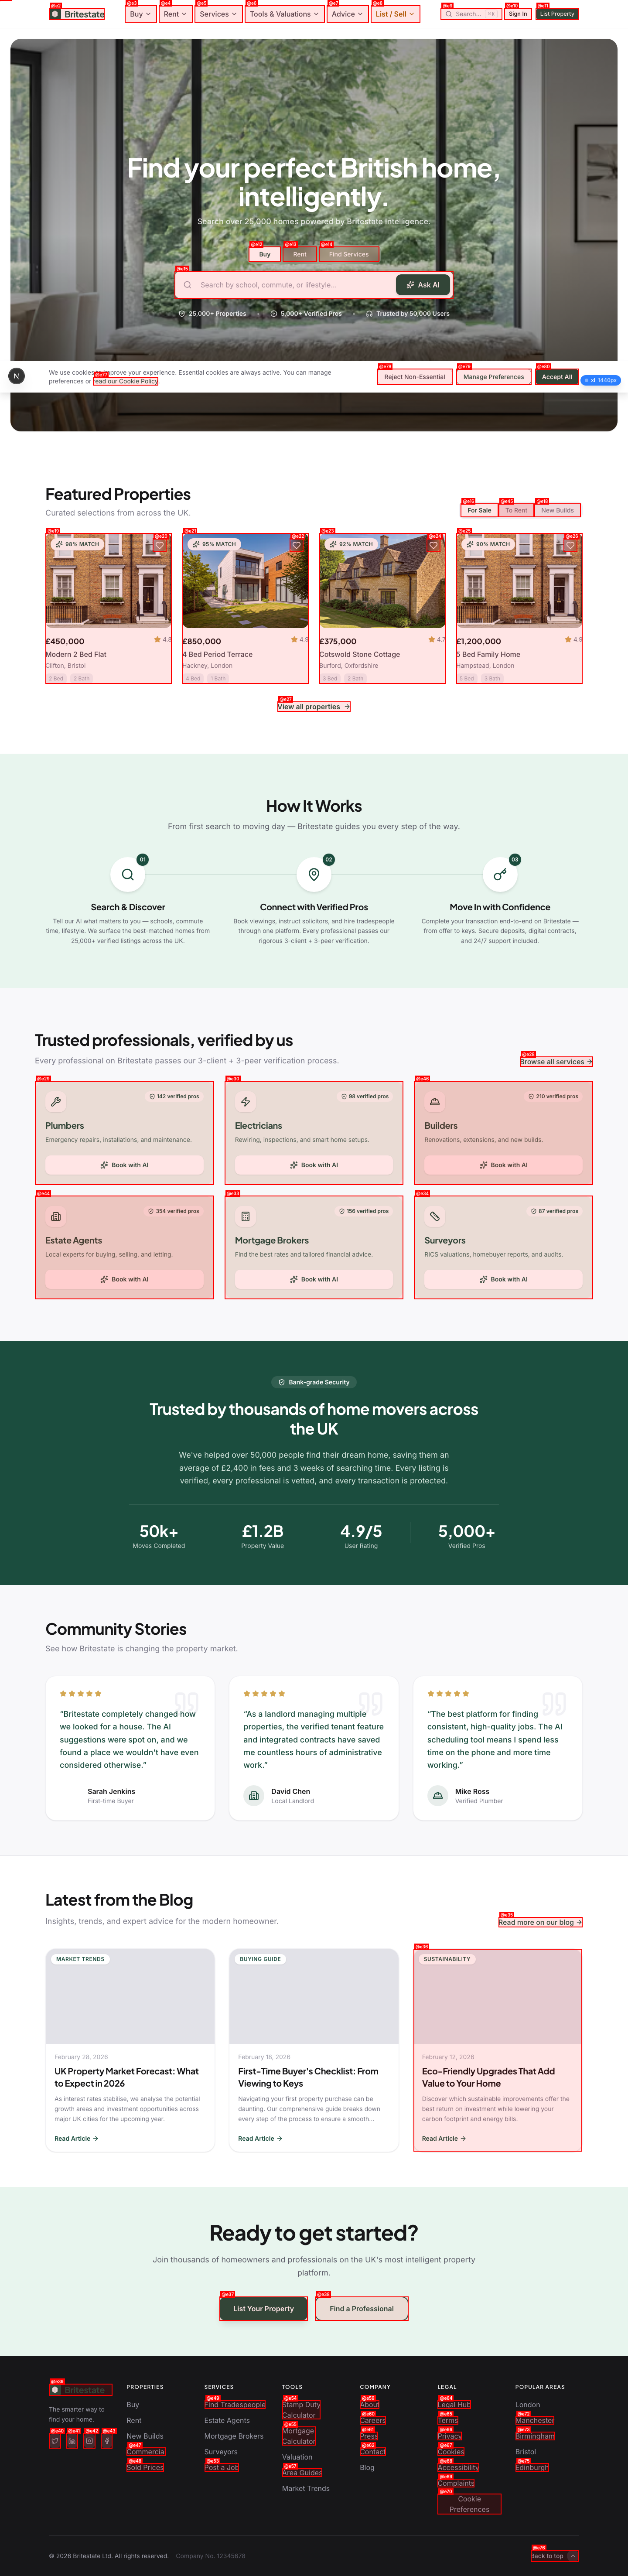
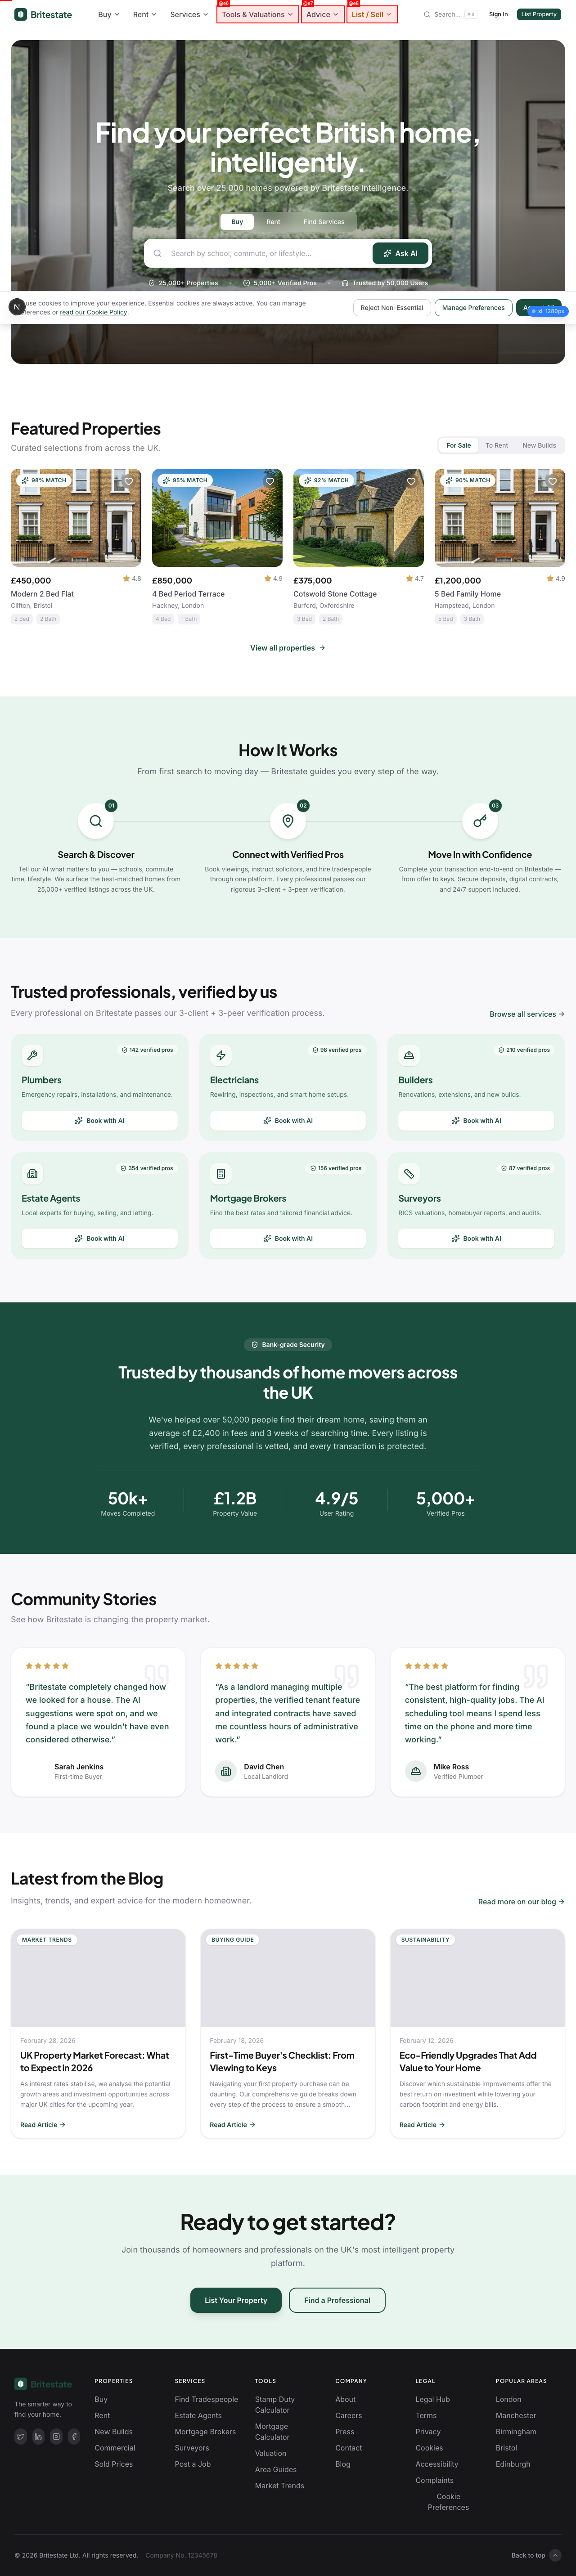
style(stage8): restyle provider dashboard pages to Stitch tokens

diff --git a/src/services/provider/provider-analytics-service.ts b/src/services/provider/provider-analytics-service.ts
@@ -72,60 +72,73 @@ export async function getProviderAnalytics(
   providerId: string,
   period: AnalyticsPeriod,
 ): Promise<ProviderAnalyticsSummary> {
-  const startDate = startDateForPeriod(period);
-
-  const { data, error } = await supabase
-    .from("provider_analytics_daily")
-    .select("*")
-    .eq("provider_id", providerId)
-    .gte("date", startDate)
-    .order("date", { ascending: true });
-
-  if (error) throw new Error(error.message);
-
-  const rows = (data ?? []) as ProviderAnalyticsDaily[];
-
-  // -- profile_views_total
-  const profile_views_total = rows.reduce((sum, r) => sum + r.profile_views, 0);
-
-  // -- profile_views_by_day
-  const profile_views_by_day: ProfileViewsByDay[] = rows.map((r) => ({
-    date: r.date,
-    views: r.profile_views,
-  }));
-
-  // -- enquiry_rate_pct
-  const totalEnquiries = rows.reduce((sum, r) => sum + r.enquiries_received, 0);
-  const enquiry_rate_pct =
-    profile_views_total > 0
-      ? Math.min(100, Math.round((totalEnquiries / profile_views_total) * 100 * 100) / 100)
-      : 0;
-
-  // -- conversion_by_stage
-  const conversion_by_stage = await getConversionFunnel(supabase, providerId, period, rows);
-
-  // -- earnings_by_month (group by YYYY-MM)
-  const earningsMap = new Map<string, number>();
-  for (const row of rows) {
-    const month = row.date.slice(0, 7); // YYYY-MM
-    earningsMap.set(month, (earningsMap.get(month) ?? 0) + row.earnings_pence);
-  }
-  const earnings_by_month: EarningsByMonth[] = Array.from(earningsMap.entries())
-    .map(([month, earnings_pence]) => ({ month, earnings_pence }))
-    .sort((a, b) => a.month.localeCompare(b.month));
-
-  // -- top_categories: requires bookings data; not available in analytics_daily
-  // TODO: query provider_bookings joined to provider_services for category breakdown
-  const top_categories: TopCategory[] = [];
-
-  return {
-    profile_views_total,
-    profile_views_by_day,
-    enquiry_rate_pct,
-    conversion_by_stage,
-    earnings_by_month,
-    top_categories,
+  const EMPTY: ProviderAnalyticsSummary = {
+    profile_views_total: 0,
+    profile_views_by_day: [],
+    enquiry_rate_pct: 0,
+    conversion_by_stage: { viewed: 0, enquired: 0, quoted: 0, booked: 0 },
+    earnings_by_month: [],
+    top_categories: [],
   };
+
+  try {
+    const startDate = startDateForPeriod(period);
+
+    const { data, error } = await supabase
+      .from("provider_analytics_daily")
+      .select("*")
+      .eq("provider_id", providerId)
+      .gte("date", startDate)
+      .order("date", { ascending: true });
+
+    if (error || !data) return EMPTY;
+
+    const rows = data as ProviderAnalyticsDaily[];
+
+    // -- profile_views_total
+    const profile_views_total = rows.reduce((sum, r) => sum + r.profile_views, 0);
+
+    // -- profile_views_by_day
+    const profile_views_by_day: ProfileViewsByDay[] = rows.map((r) => ({
+      date: r.date,
+      views: r.profile_views,
+    }));
+
+    // -- enquiry_rate_pct
+    const totalEnquiries = rows.reduce((sum, r) => sum + r.enquiries_received, 0);
+    const enquiry_rate_pct =
+      profile_views_total > 0
+        ? Math.min(100, Math.round((totalEnquiries / profile_views_total) * 100 * 100) / 100)
+        : 0;
+
+    // -- conversion_by_stage
+    const conversion_by_stage = await getConversionFunnel(supabase, providerId, period, rows);
+
+    // -- earnings_by_month (group by YYYY-MM)
+    const earningsMap = new Map<string, number>();
+    for (const row of rows) {
+      const month = row.date.slice(0, 7); // YYYY-MM
+      earningsMap.set(month, (earningsMap.get(month) ?? 0) + row.earnings_pence);
+    }
+    const earnings_by_month: EarningsByMonth[] = Array.from(earningsMap.entries())
+      .map(([month, earnings_pence]) => ({ month, earnings_pence }))
+      .sort((a, b) => a.month.localeCompare(b.month));
+
+    // -- top_categories: requires bookings data; not available in analytics_daily
+    // TODO: query provider_bookings joined to provider_services for category breakdown
+    const top_categories: TopCategory[] = [];
+
+    return {
+      profile_views_total,
+      profile_views_by_day,
+      enquiry_rate_pct,
+      conversion_by_stage,
+      earnings_by_month,
+      top_categories,
+    };
+  } catch {
+    return EMPTY;
+  }
 }
 
 // ---------------------------------------------------------------------------
@@ -157,8 +170,8 @@ export async function getConversionFunnel(
       .eq("provider_id", providerId)
       .gte("date", startDate);
 
-    if (error) throw new Error(error.message);
-    dailyRows = (data ?? []) as ProviderAnalyticsDaily[];
+    if (error || !data) return { viewed: 0, enquired: 0, quoted: 0, booked: 0 };
+    dailyRows = data as ProviderAnalyticsDaily[];
   }
 
   const viewed = dailyRows.reduce((sum, r) => sum + r.profile_views, 0);

diff --git a/src/app/(protected)/dashboard/provider/error.tsx b/src/app/(protected)/dashboard/provider/error.tsx
@@ -1,0 +1,31 @@
+"use client";
+
+import { AlertTriangle, RefreshCw } from "lucide-react";
+import { Button } from "@/components/ui/button";
+
+export default function DashboardError({
+  error,
+  reset,
+}: {
+  error: Error & { digest?: string };
+  reset: () => void;
+}) {
+  return (
+    <div className="flex flex-col items-center justify-center gap-4 p-8 py-20 text-center">
+      <AlertTriangle className="size-12 text-red-500" />
+      <h2 className="text-lg font-bold">Failed to load dashboard</h2>
+      <p className="max-w-md text-sm text-muted-foreground">
+        We couldn&apos;t load your dashboard data. This is usually temporary.
+      </p>
+      {process.env.NODE_ENV === "development" && error?.message && (
+        <pre className="max-w-lg text-xs text-red-600 bg-red-50 p-3 rounded-lg overflow-auto">
+          {error.message}
+        </pre>
+      )}
+      <Button onClick={reset} className="gap-2">
+        <RefreshCw className="size-4" />
+        Try Again
+      </Button>
+    </div>
+  );
+}

diff --git a/src/app/(protected)/dashboard/provider/boost/page.tsx b/src/app/(protected)/dashboard/provider/boost/page.tsx
@@ -20,7 +20,7 @@ export default async function BoostPage() {
 
   const { data: providerProfile } = await supabase
     .from("service_provider_details")
-    .select("id")
+    .select("user_id")
     .eq("user_id", user.id)
     .maybeSingle();
 
@@ -30,7 +30,7 @@ export default async function BoostPage() {
 
   let activeBoosts: Awaited<ReturnType<typeof getActiveBoosts>> = [];
   try {
-    activeBoosts = await getActiveBoosts(supabase, providerProfile.id);
+    activeBoosts = await getActiveBoosts(supabase, providerProfile.user_id);
   } catch {
     activeBoosts = [];
   }

diff --git a/src/app/(protected)/dashboard/provider/field/jobs/page.tsx b/src/app/(protected)/dashboard/provider/field/jobs/page.tsx
@@ -125,11 +125,11 @@ export default async function FieldJobsPage() {
 
   const { data: providerProfile } = await supabase
     .from("service_provider_details")
-    .select("id")
+    .select("user_id")
     .eq("user_id", user.id)
     .maybeSingle();
 
-  const providerId = (providerProfile?.id as string | null) ?? user.id;
+  const providerId = (providerProfile?.user_id as string | null) ?? user.id;
 
   const [leads, activeJobs] = await Promise.all([
     getProviderLeads(providerId, supabase),

diff --git a/src/app/(protected)/dashboard/provider/field/layout.tsx b/src/app/(protected)/dashboard/provider/field/layout.tsx
@@ -26,7 +26,7 @@ export default async function FieldLayout({
   // Resolve provider identity
   const { data: providerProfile } = await supabase
     .from("service_provider_details")
-    .select("id, business_name")
+    .select("user_id, business_name")
     .eq("user_id", user.id)
     .maybeSingle();
 
@@ -37,7 +37,7 @@ export default async function FieldLayout({
     .maybeSingle();
 
   const initialData = {
-    providerId: (providerProfile?.id as string | null) ?? user.id,
+    providerId: (providerProfile?.user_id as string | null) ?? user.id,
     userId: user.id,
     businessName: (providerProfile?.business_name as string | null) ?? "",
     stripeAccountId: (stripeAccount?.stripe_account_id as string | null) ?? null,

diff --git a/src/app/(protected)/dashboard/provider/field/page.tsx b/src/app/(protected)/dashboard/provider/field/page.tsx
@@ -43,11 +43,11 @@ export default async function FieldTodayPage() {
   // Resolve provider id
   const { data: providerProfile } = await supabase
     .from("service_provider_details")
-    .select("id")
+    .select("user_id")
     .eq("user_id", user.id)
     .maybeSingle();
 
-  const providerId = (providerProfile?.id as string | null) ?? user.id;
+  const providerId = (providerProfile?.user_id as string | null) ?? user.id;
 
   const jobs = await getUpcomingJobs(providerId, 20, supabase);
   const today = new Date();

diff --git a/src/app/(protected)/dashboard/provider/field/payments/page.tsx b/src/app/(protected)/dashboard/provider/field/payments/page.tsx
@@ -22,11 +22,11 @@ export default async function FieldPaymentsPage() {
 
   const { data: providerProfile } = await supabase
     .from("service_provider_details")
-    .select("id")
+    .select("user_id")
     .eq("user_id", user.id)
     .maybeSingle();
 
-  const providerId = (providerProfile?.id as string | null) ?? user.id;
+  const providerId = (providerProfile?.user_id as string | null) ?? user.id;
 
   const [cashPosition, invoicesResult] = await Promise.all([
     getCashPosition(providerId, supabase),

diff --git a/src/app/(protected)/dashboard/provider/jobs/[id]/page.tsx b/src/app/(protected)/dashboard/provider/jobs/[id]/page.tsx
@@ -90,11 +90,11 @@ export default async function JobDetailPage({ params }: Params) {
   // Resolve provider id
   const { data: providerProfile } = await supabase
     .from("service_provider_details")
-    .select("id")
+    .select("user_id")
     .eq("user_id", user.id)
     .maybeSingle();
 
-  const providerId = providerProfile?.id ?? user.id;
+  const providerId = providerProfile?.user_id ?? user.id;
 
   // Fetch job detail
   let job;

diff --git a/src/app/(protected)/dashboard/provider/jobs/active/page.tsx b/src/app/(protected)/dashboard/provider/jobs/active/page.tsx
@@ -117,11 +117,11 @@ export default async function ActiveJobsPage() {
 
   const { data: providerProfile } = await supabase
     .from("service_provider_details")
-    .select("id")
+    .select("user_id")
     .eq("user_id", user.id)
     .maybeSingle();
 
-  const providerId = providerProfile?.id ?? user.id;
+  const providerId = providerProfile?.user_id ?? user.id;
 
   const jobs = await getActiveJobs(supabase, providerId);
 

diff --git a/src/app/(protected)/dashboard/provider/jobs/completed/page.tsx b/src/app/(protected)/dashboard/provider/jobs/completed/page.tsx
@@ -174,11 +174,11 @@ export default async function CompletedJobsPage(props: Readonly<{
 
   const { data: providerProfile } = await supabase
     .from("service_provider_details")
-    .select("id")
+    .select("user_id")
     .eq("user_id", user.id)
     .maybeSingle();
 
-  const providerId = providerProfile?.id ?? user.id;
+  const providerId = providerProfile?.user_id ?? user.id;
 
   const params = await props.searchParams;
   const query = params.q ?? "";

diff --git a/src/app/(protected)/dashboard/provider/jobs/leads/page.tsx b/src/app/(protected)/dashboard/provider/jobs/leads/page.tsx
@@ -19,11 +19,11 @@ export default async function ProviderLeadsPage() {
   // Resolve provider id
   const { data: providerProfile } = await supabase
     .from("service_provider_details")
-    .select("id")
+    .select("user_id")
     .eq("user_id", user.id)
     .maybeSingle();
 
-  const providerId = providerProfile?.id ?? user.id;
+  const providerId = providerProfile?.user_id ?? user.id;
 
   // Fetch initial leads server-side
   const leads = await getProviderLeads(providerId, supabase);

diff --git a/src/app/(protected)/dashboard/provider/payments/[id]/page.tsx b/src/app/(protected)/dashboard/provider/payments/[id]/page.tsx
@@ -22,11 +22,11 @@ export default async function TransactionDetailPage(
 
   const { data: providerProfile } = await supabase
     .from("service_provider_details")
-    .select("id")
+    .select("user_id")
     .eq("user_id", user.id)
     .maybeSingle();
 
-  const providerId = (providerProfile as { id: string } | null)?.id ?? user.id;
+  const providerId = (providerProfile as { user_id: string } | null)?.user_id ?? user.id;
 
   let transaction;
   try {